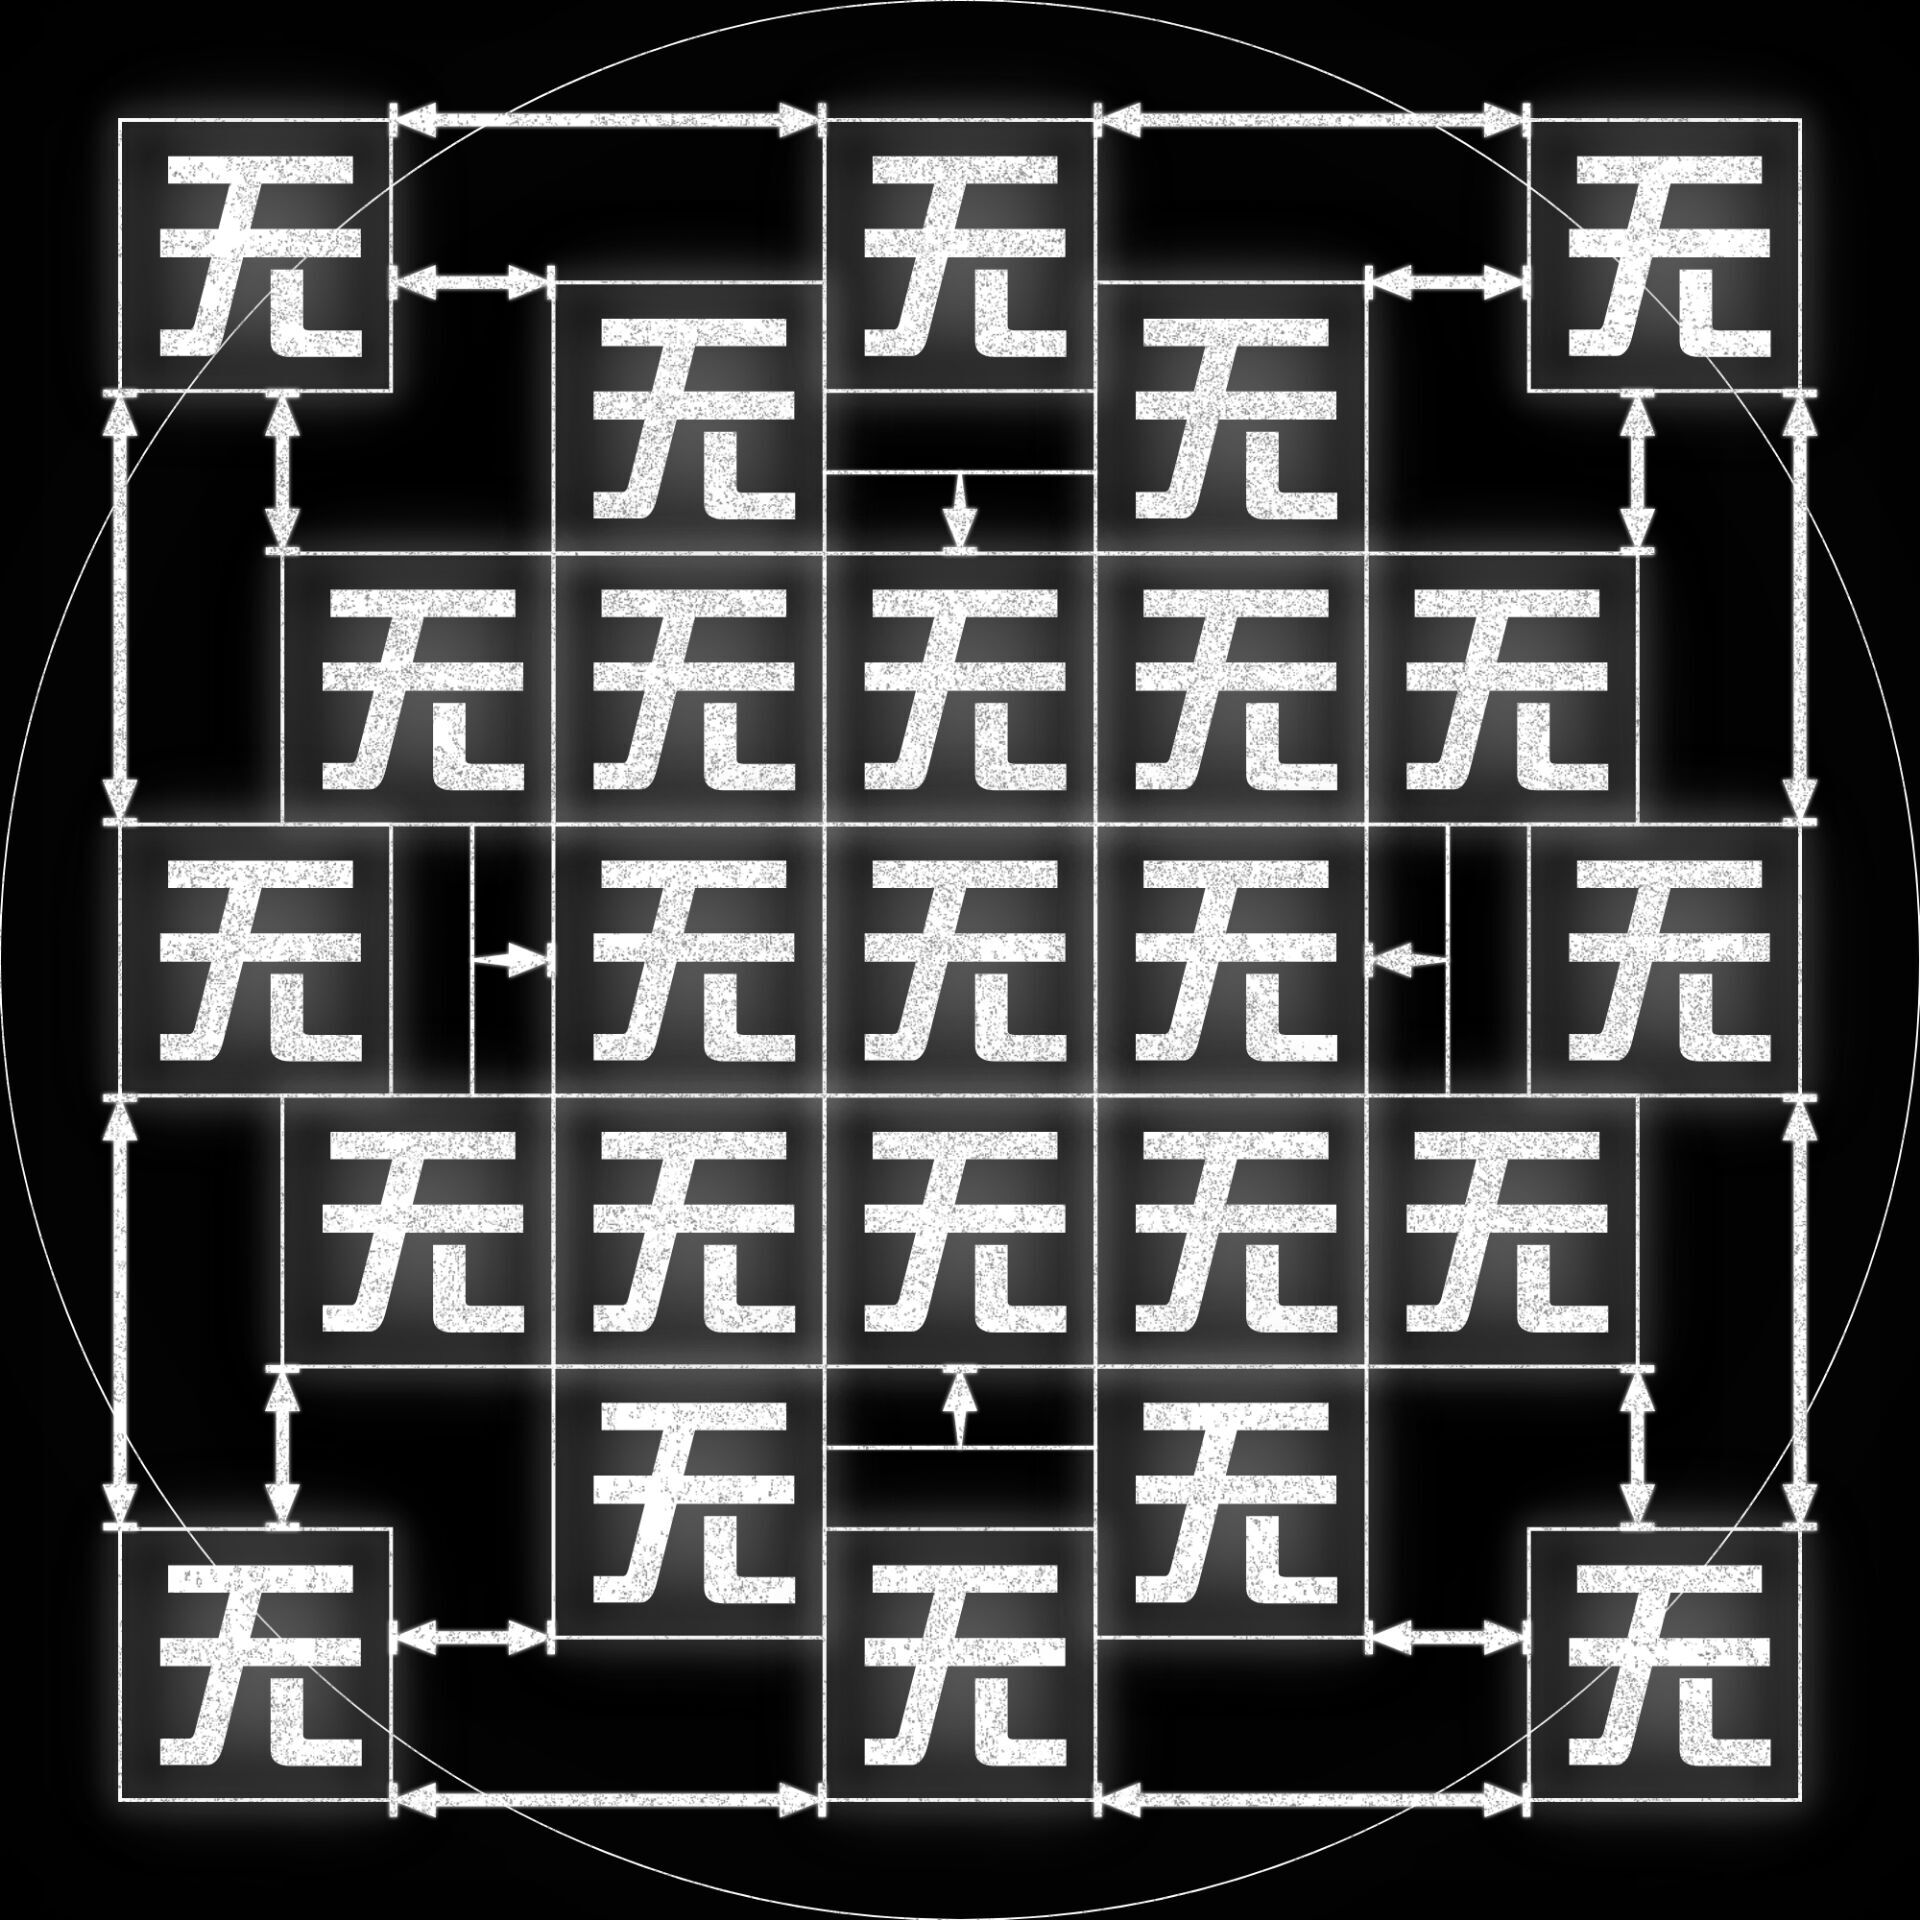
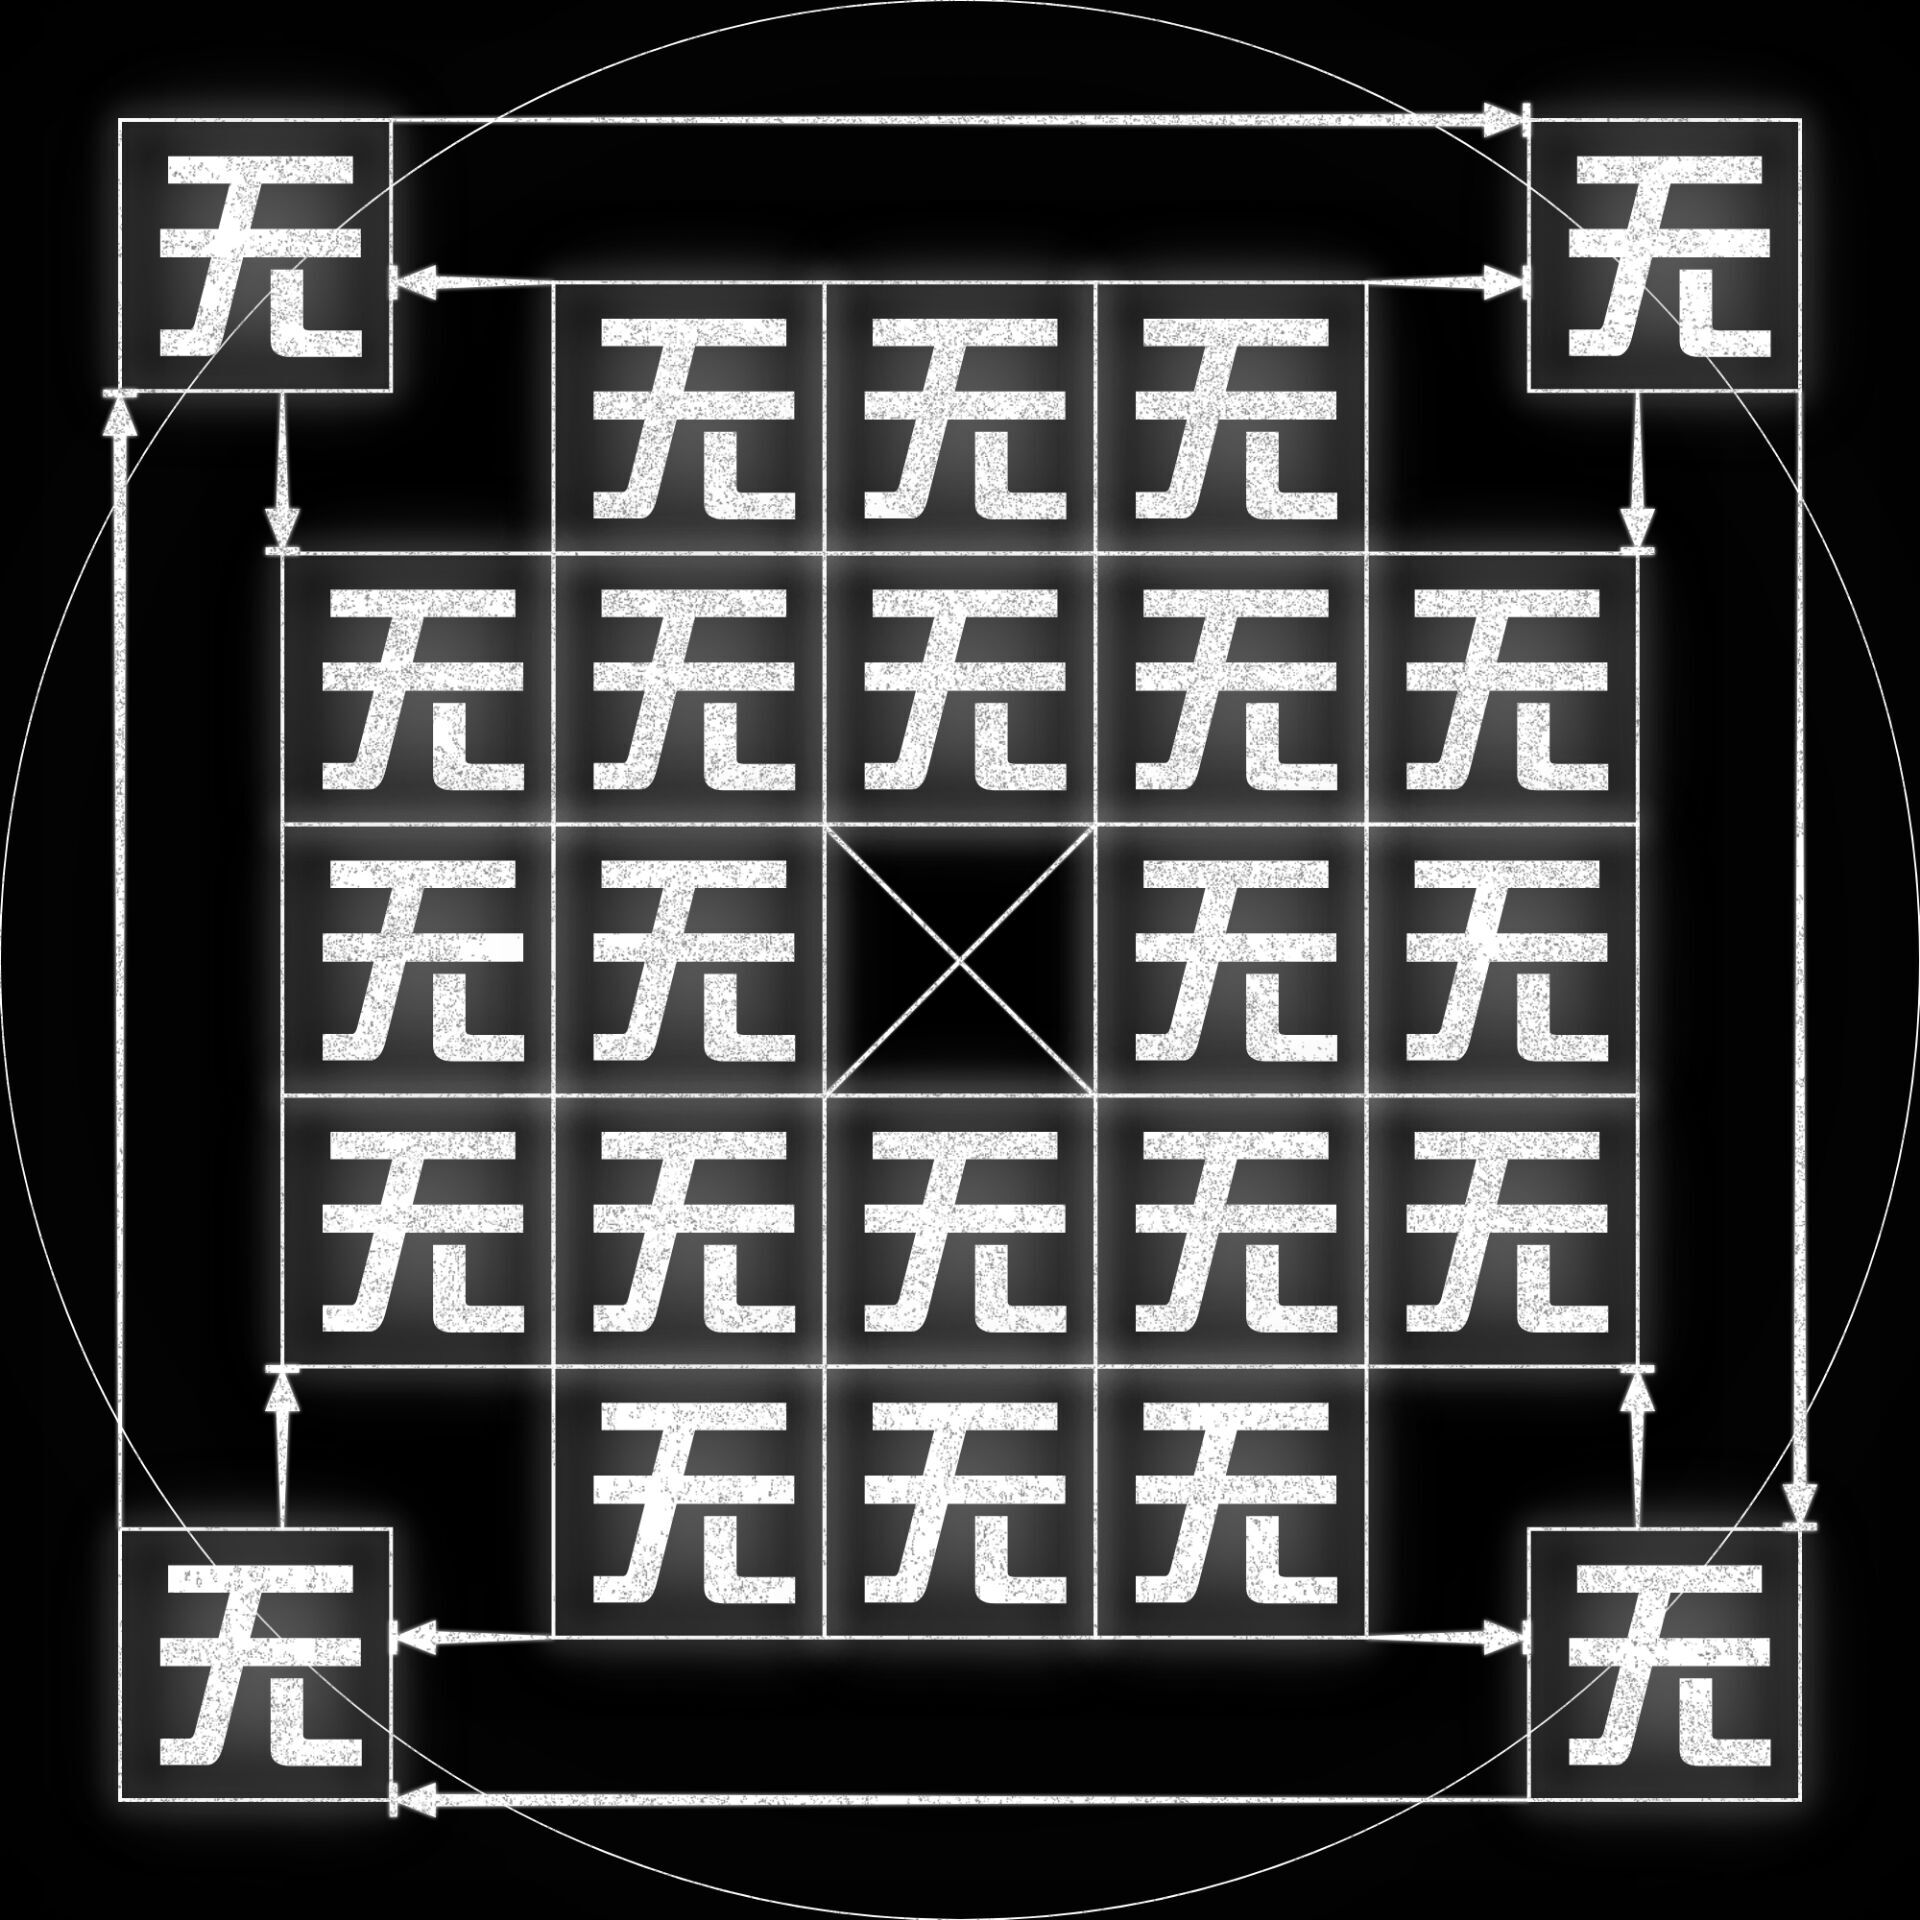
version1.0.2

diff --git a/index.html b/index.html
@@ -391,14 +391,7 @@
     更多关于本Wiki的内容？
   </a>
   
-</li>
-      
-        <li class="md-nav__item">
-  <a href="#wiki_1" class="md-nav__link">
-    Wiki版本和更新时间
-  </a>
-  
-    <nav class="md-nav" aria-label="Wiki版本和更新时间">
+    <nav class="md-nav" aria-label="更多关于本Wiki的内容？">
       <ul class="md-nav__list">
         
           <li class="md-nav__item">
@@ -770,14 +763,7 @@
     更多关于本Wiki的内容？
   </a>
   
-</li>
-      
-        <li class="md-nav__item">
-  <a href="#wiki_1" class="md-nav__link">
-    Wiki版本和更新时间
-  </a>
-  
-    <nav class="md-nav" aria-label="Wiki版本和更新时间">
+    <nav class="md-nav" aria-label="更多关于本Wiki的内容？">
       <ul class="md-nav__list">
         
           <li class="md-nav__item">
@@ -809,6 +795,7 @@
 
 <h1 id="_1">不可译词</h1>
 <p>欢迎来到<strong>不可译词Wiki</strong>！</p>
+<p>目前的Wiki版本是version1.0.2，更新于2022.12.12。</p>
 <p><strong>不可译词</strong>（UW，Unguessable Word）是一种以<a href="https://baike.baidu.com/item/%E6%83%85%E5%A2%83%E7%8C%9C%E8%B0%9C/2419095?fromModule=lemma_inlink&amp;fromtitle=%E6%B5%B7%E9%BE%9F%E6%B1%A4&amp;fromid=218574">海龟汤</a>形式进行的猜词游戏。游戏分为出题方和猜词方，出题方需要想出一个存在的词语，猜测方则需要提出和词语有关的问题来缩小词语的范围，最终猜出词语。出题方只可以以答案“是（对）”、“不是（不对）”或“没有关系”来回答问题。</p>
 <h2 id="_2">不可译词的通俗约定规则</h2>
 <p>在猜测词语的过程中，为了保证词语的可猜测性，在无例外的情况下，<strong>应该保证以下规则</strong>：</p>
@@ -846,9 +833,6 @@
 <p>如果你想了解一些猜词方面的技巧，请移步<strong>译词技巧页面</strong>。</p>
 <p>如果你想了解关于不可译词的一些历史出题情况，请移步<strong>历史出题页面</strong>。</p>
 <p>如果你想对本文档进行编辑或作出贡献，请移步<strong>贡献页面</strong>。</p>
-<h2 id="wiki_1">Wiki版本和更新时间</h2>
-<p>本Wiki的版本为：Version1.0.1</p>
-<p>最近一次更新为：2022.12.12</p>
 <h3 id="_4"></h3>
 
 

diff --git a/贡献/C_version_log/index.html b/贡献/C_version_log/index.html
@@ -672,6 +672,13 @@
     <ul class="md-nav__list" data-md-component="toc" data-md-scrollfix>
       
         <li class="md-nav__item">
+  <a href="#version102" class="md-nav__link">
+    version1.0.2
+  </a>
+  
+</li>
+      
+        <li class="md-nav__item">
   <a href="#version101" class="md-nav__link">
     version1.0.1
   </a>
@@ -727,6 +734,13 @@
     <ul class="md-nav__list" data-md-component="toc" data-md-scrollfix>
       
         <li class="md-nav__item">
+  <a href="#version102" class="md-nav__link">
+    version1.0.2
+  </a>
+  
+</li>
+      
+        <li class="md-nav__item">
   <a href="#version101" class="md-nav__link">
     version1.0.1
   </a>
@@ -756,6 +770,13 @@
 
 
 <h1 id="_1">更新日志</h1>
+<h3 id="version102">version1.0.2</h3>
+<p>编辑于2022.12.12。</p>
+<ul>
+<li>修正了地图显示错误</li>
+<li>对图片源更改问题进行了进一步的修正</li>
+<li>修改了Wiki首页版本板块</li>
+</ul>
 <h3 id="version101">version1.0.1</h3>
 <p>编辑于2022.12.12。</p>
 <ul>
